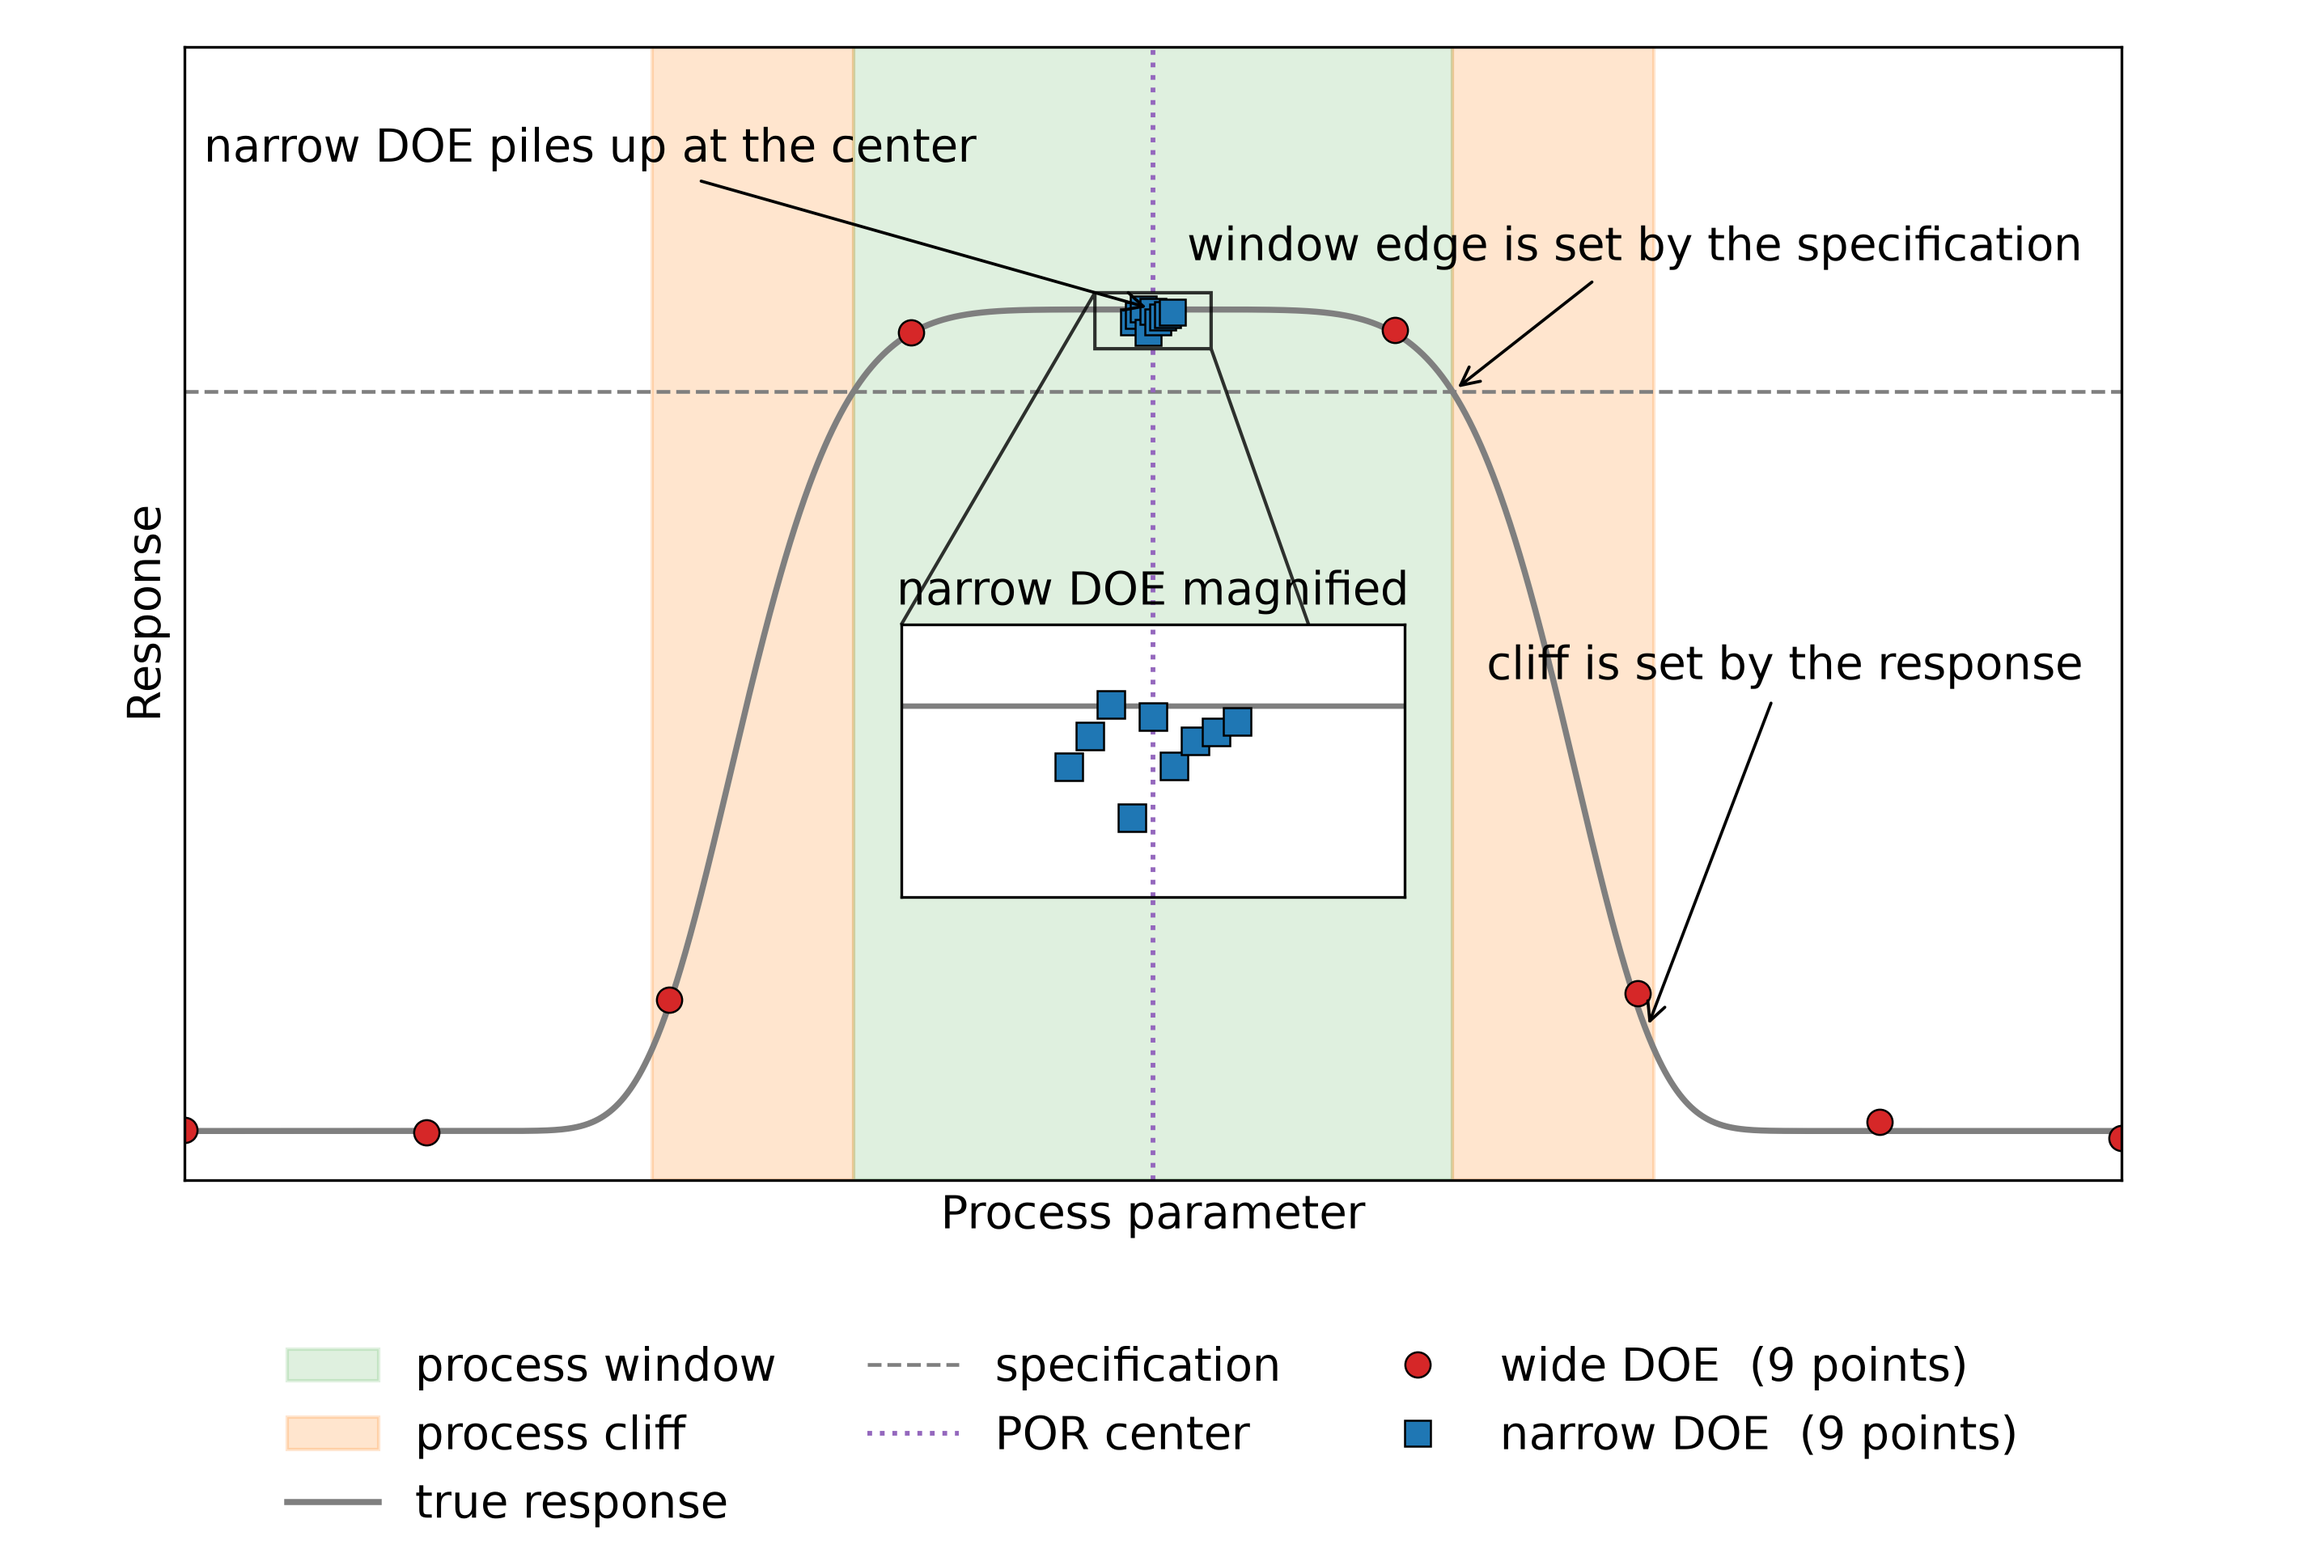
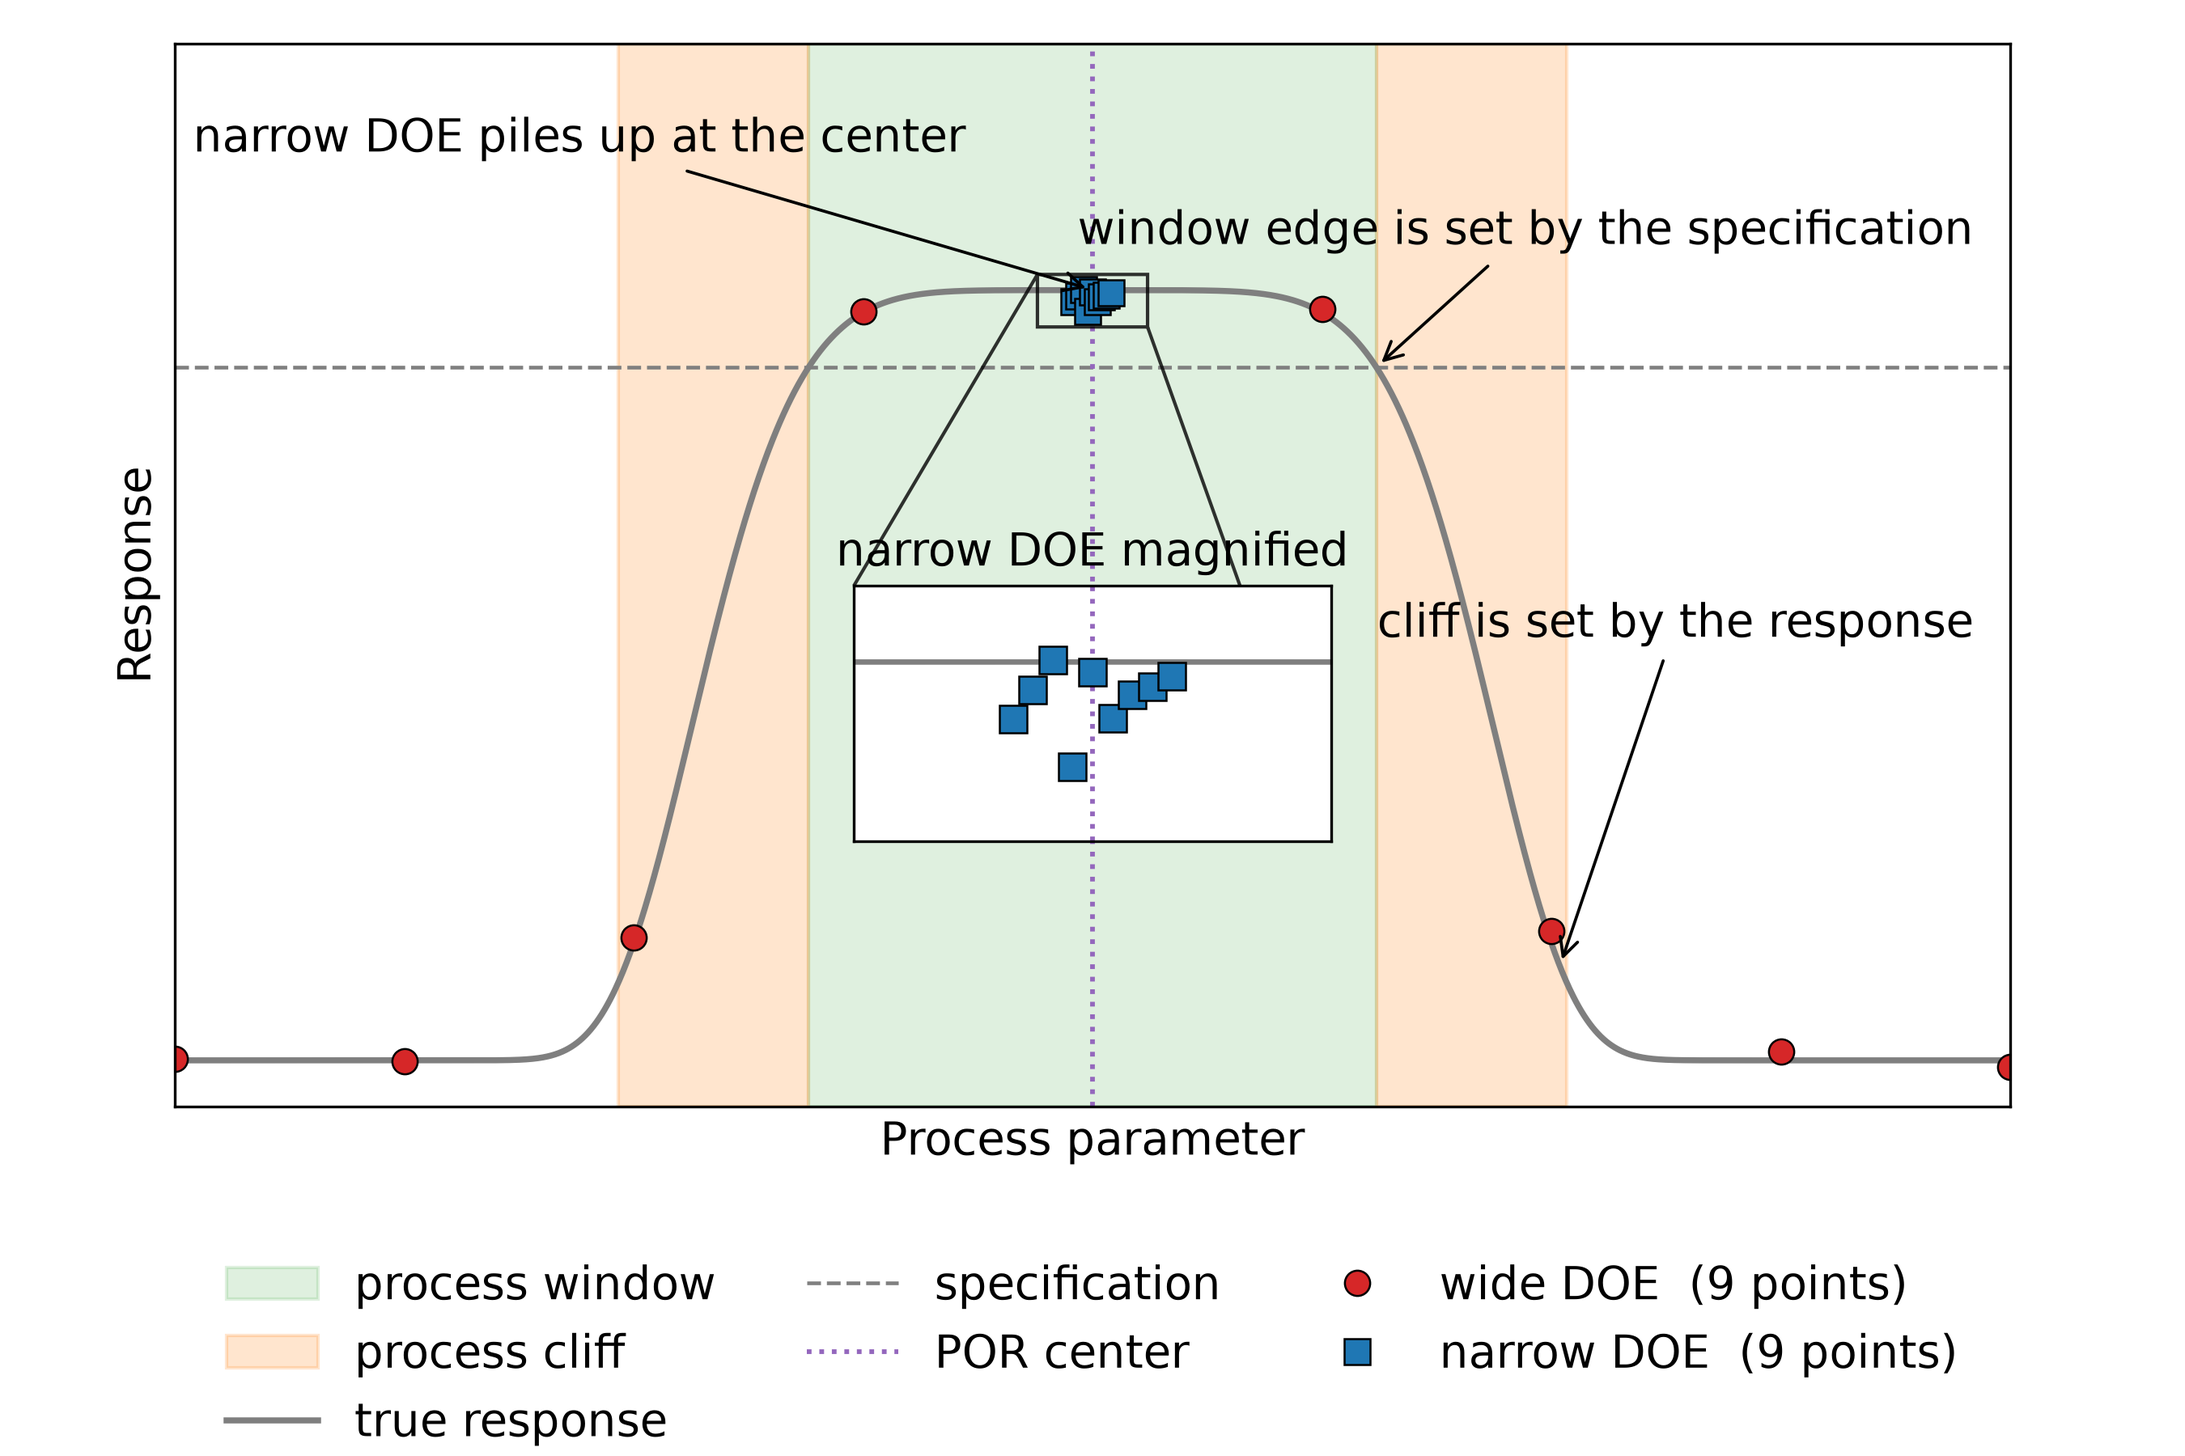
Set the figure to nine by six inches
The figure filled the body width and carried its height along with it,
which put more of the page under one diagram than the diagram needed.
Trim both dimensions to the size the other figures in the repository use.

Claude-Session: https://claude.ai/code/session_01Q6gebKnkh6fvcJxvUaxQ1o

diff --git a/Active-Learning/DOE/doe-range-figure.py b/Active-Learning/DOE/doe-range-figure.py
@@ -17,7 +17,7 @@ from matplotlib import pyplot as plt
 from matplotlib.colors import TABLEAU_COLORS
 
 __author__ = 'yRocket'
-__version__ = "0.1.1.2026.8.27"  # Semantic Versioning: Major.Minor.Patch.Date(YYYY.M.D)
+__version__ = "0.1.2.2026.8.27"  # Semantic Versioning: Major.Minor.Patch.Date(YYYY.M.D)
 
 matplotlib.use('Agg')
 
@@ -151,7 +151,7 @@ def plot_range(points: dict = None, center: float = None, half_width: float = No
     curve = true_response(parameter=grid, center=center, half_width=half_width, sharpness=sharpness)
 
     font_size = BASE_FONT_SIZE * font_scale
-    fig, axis = plt.subplots(nrows=1, ncols=1, figsize=(9.5, 6.4))
+    fig, axis = plt.subplots(nrows=1, ncols=1, figsize=(9.0, 6.0))
 
     axis.axvspan(lower, upper, color=TABLEAU_COLORS['tab:green'], alpha=0.15, label='process window')
     axis.axvspan(cliff_low, lower, color=TABLEAU_COLORS['tab:orange'], alpha=0.20, label='process cliff')
